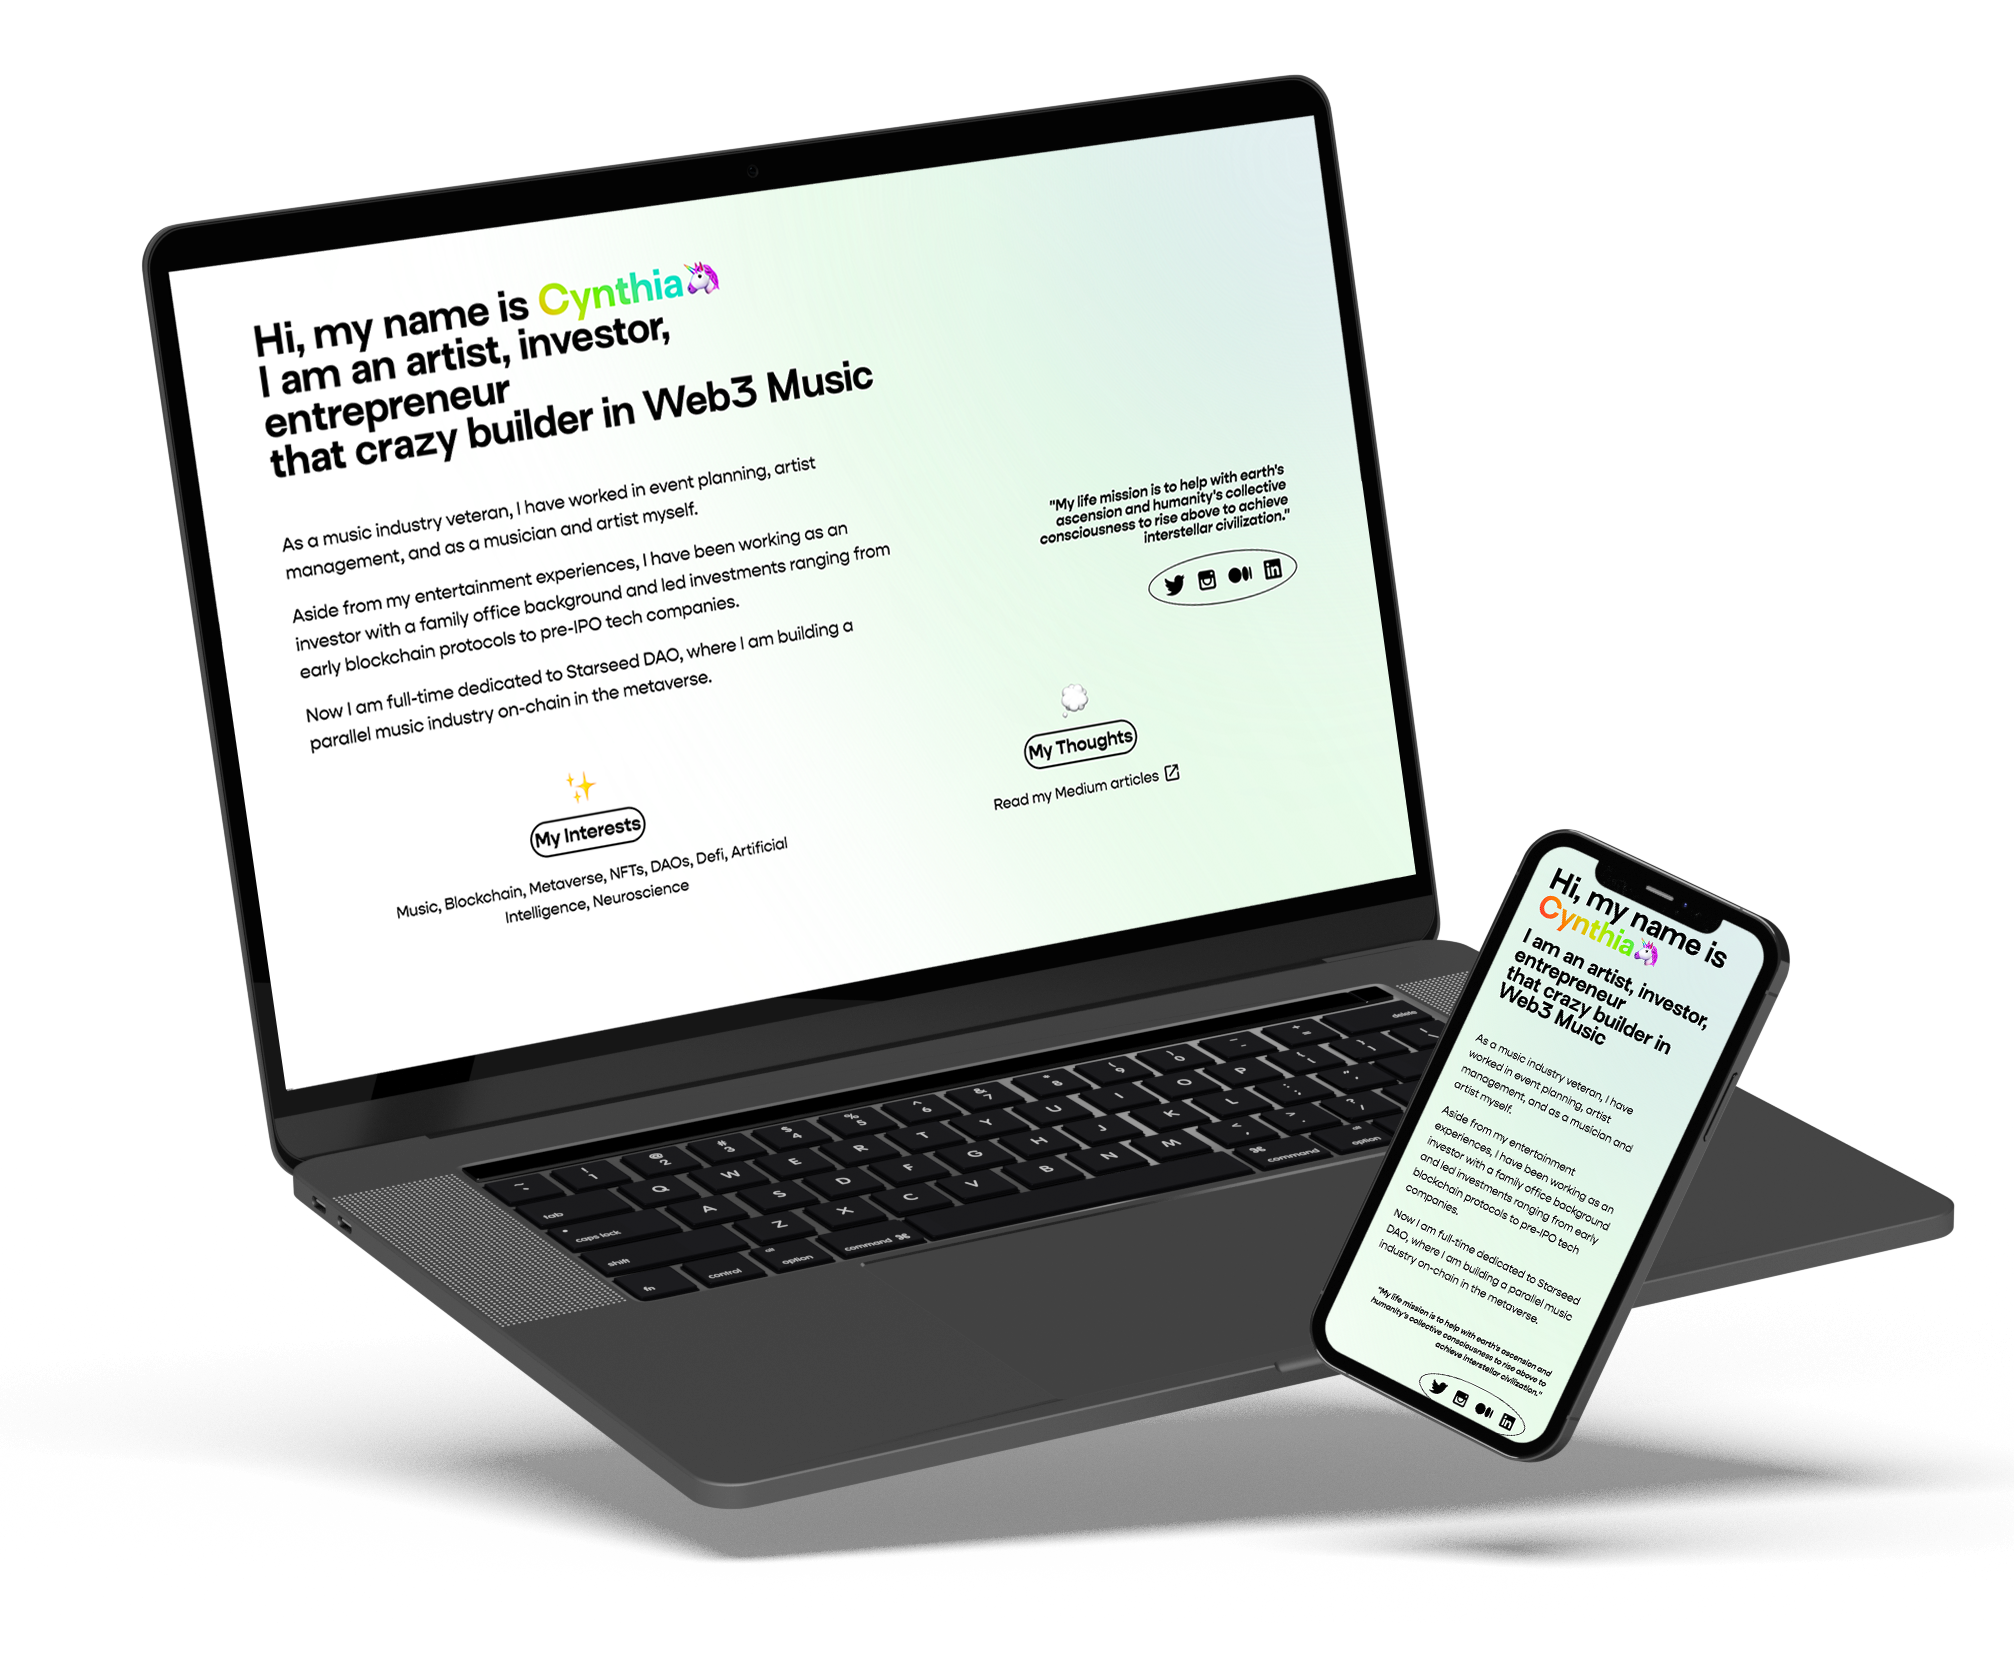
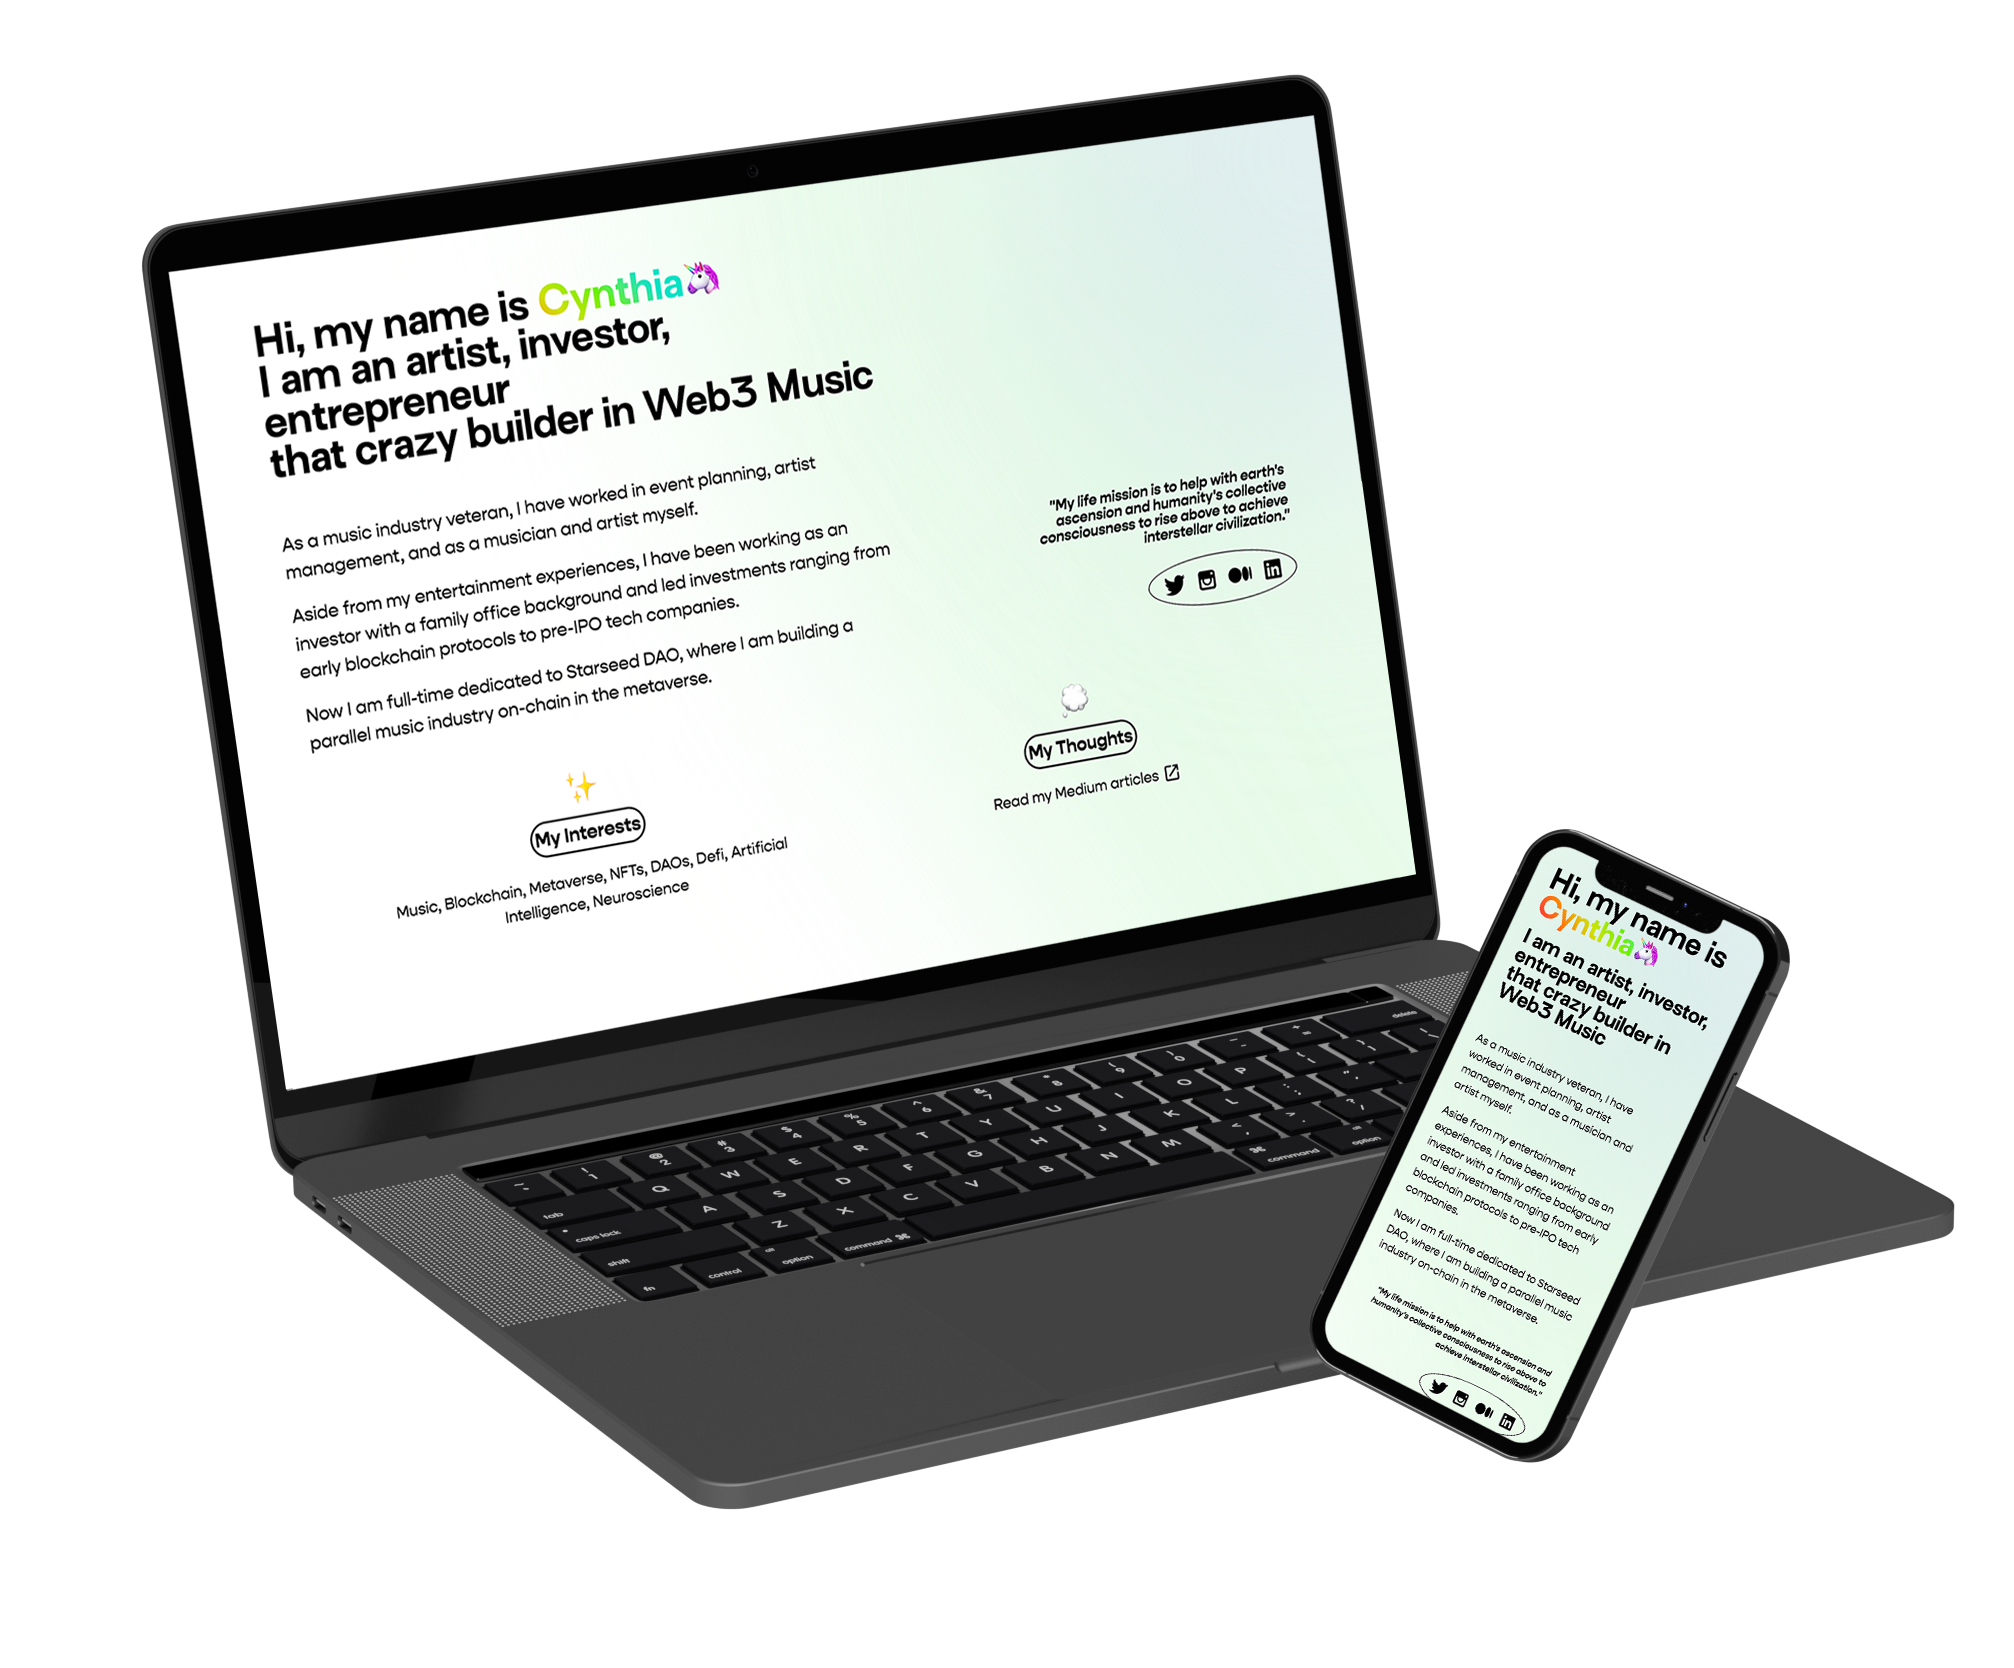
Updated image query for Project page

Changed region(s): [[0.1539, 0.8106, 0.9543, 0.9353]]

diff --git a/src/pages/projects/{mdx.slug}.js b/src/pages/projects/{mdx.slug}.js
@@ -4,7 +4,8 @@ import { MDXRenderer } from 'gatsby-plugin-mdx'
 import { GatsbyImage, getImage } from 'gatsby-plugin-image'
 
 const Project = ({ data }) => {
-  // const image = getImage(data.mdx.frontmatter.featuredImage.childImageSharp.gatsbyImageData)
+  const image = getImage(data.mdx.frontmatter.featuredImage.childImageSharp.gatsbyImageData)
+
   useEffect(() => {
     console.log('PROJECT', data.mdx.frontmatter)
   }, [])
@@ -21,7 +22,7 @@ const Project = ({ data }) => {
         <p>{data.mdx.frontmatter.date}</p>
         <p>{data.mdx.frontmatter.url}</p>
         <p>{data.mdx.frontmatter.repo}</p>
-        {/* <GatsbyImage src={image} /> */}
+        <GatsbyImage image={image} alt="Product mockups"/>
         <MDXRenderer>
           {data.mdx.body}
         </MDXRenderer>
@@ -39,6 +40,11 @@ query ($id: String) {
         url
         date(formatString: "YYYY")
         description
+        featuredImage {
+          childImageSharp {
+            gatsbyImageData(placeholder: BLURRED, width: 720)
+          }
+        }
       }
       body
       slug

diff --git a/src/layouts/index.js b/src/layouts/index.js
@@ -3,19 +3,21 @@ import React from 'react'
 import Background from '../components/three/Background'
 import Nav from '../components/sections/Nav'
 import Contact from '../components/sections/Contact'
-import {useSiteContext} from '../components/context/SiteContext'
+import { useSiteContext } from '../components/context/SiteContext'
 import '../styles/styles.scss'
 
 const Layout = ({ children }) => {
-  const {section} = useSiteContext()
+  const { section } = useSiteContext()
 
   return (
-    <div className="page-container">
+    <>
       <Background />
-      <Nav />
-      <main>{children}</main>
-      <Contact ref={section.refs.contact}/>
-    </div>
+      <div className="page-container">
+        <Nav />
+        <main>{children}</main>
+        <Contact ref={section.refs.contact} />
+      </div>
+    </>
   )
 }
 

diff --git a/src/styles/sections/_navbar.scss b/src/styles/sections/_navbar.scss
@@ -2,6 +2,8 @@ nav {
     width: 100%;
     position: fixed;
     top: 0;
+    left: 0;
+    padding: 2.5rem 1rem;
     z-index: 10;
     display: flex;
     justify-content: space-between;

diff --git a/src/styles/base/_base.scss b/src/styles/base/_base.scss
@@ -13,6 +13,11 @@ body {
 }
 
 section, nav {
+    padding: 2.5rem 0;
+}
+
+.page-container {
+    position: relative;
     padding: 2.5rem 1rem;
 }
 
